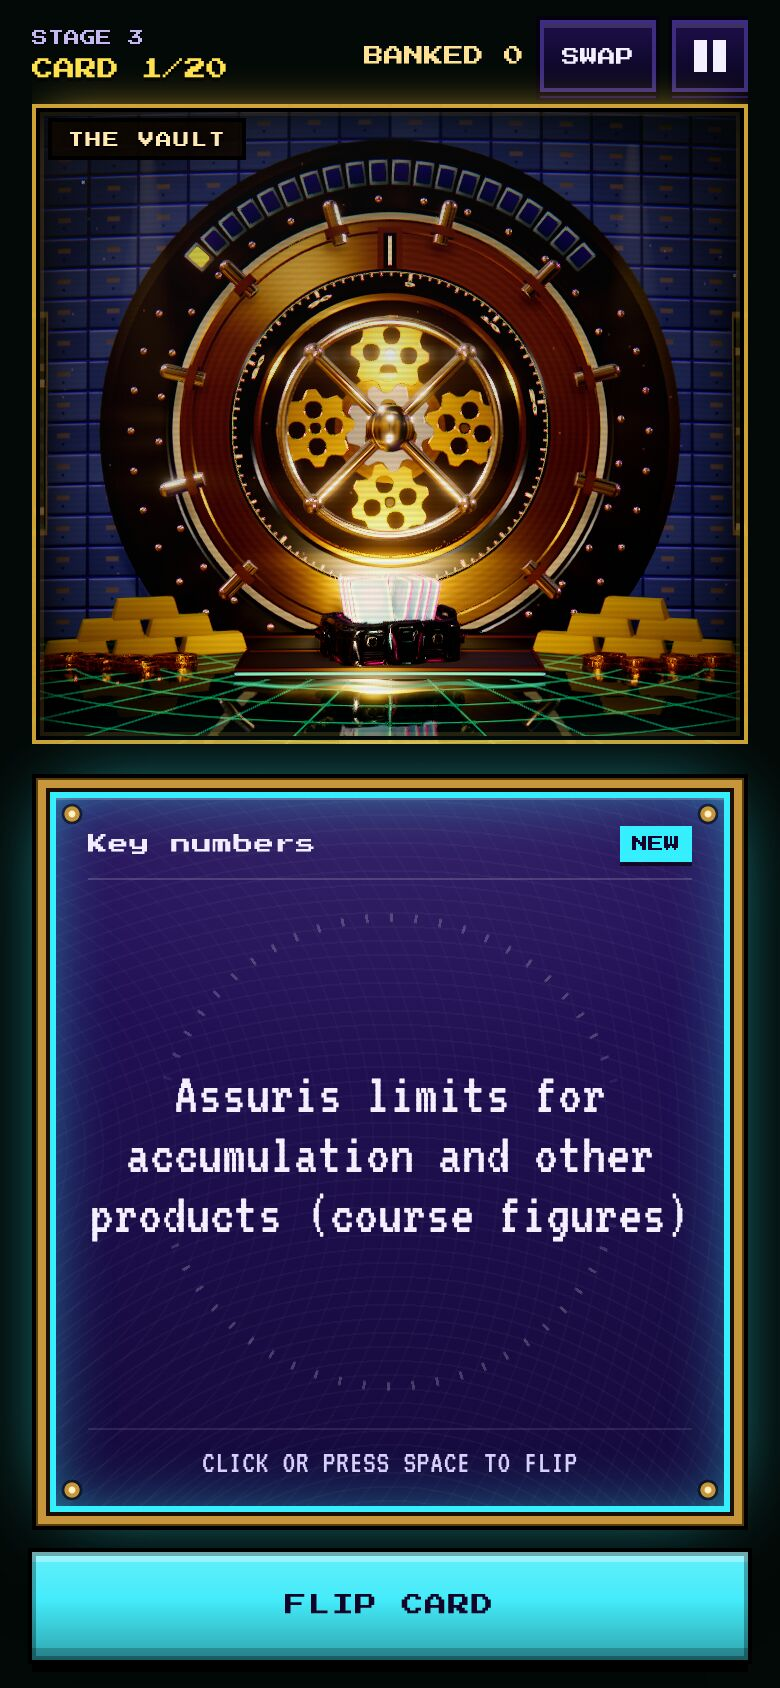
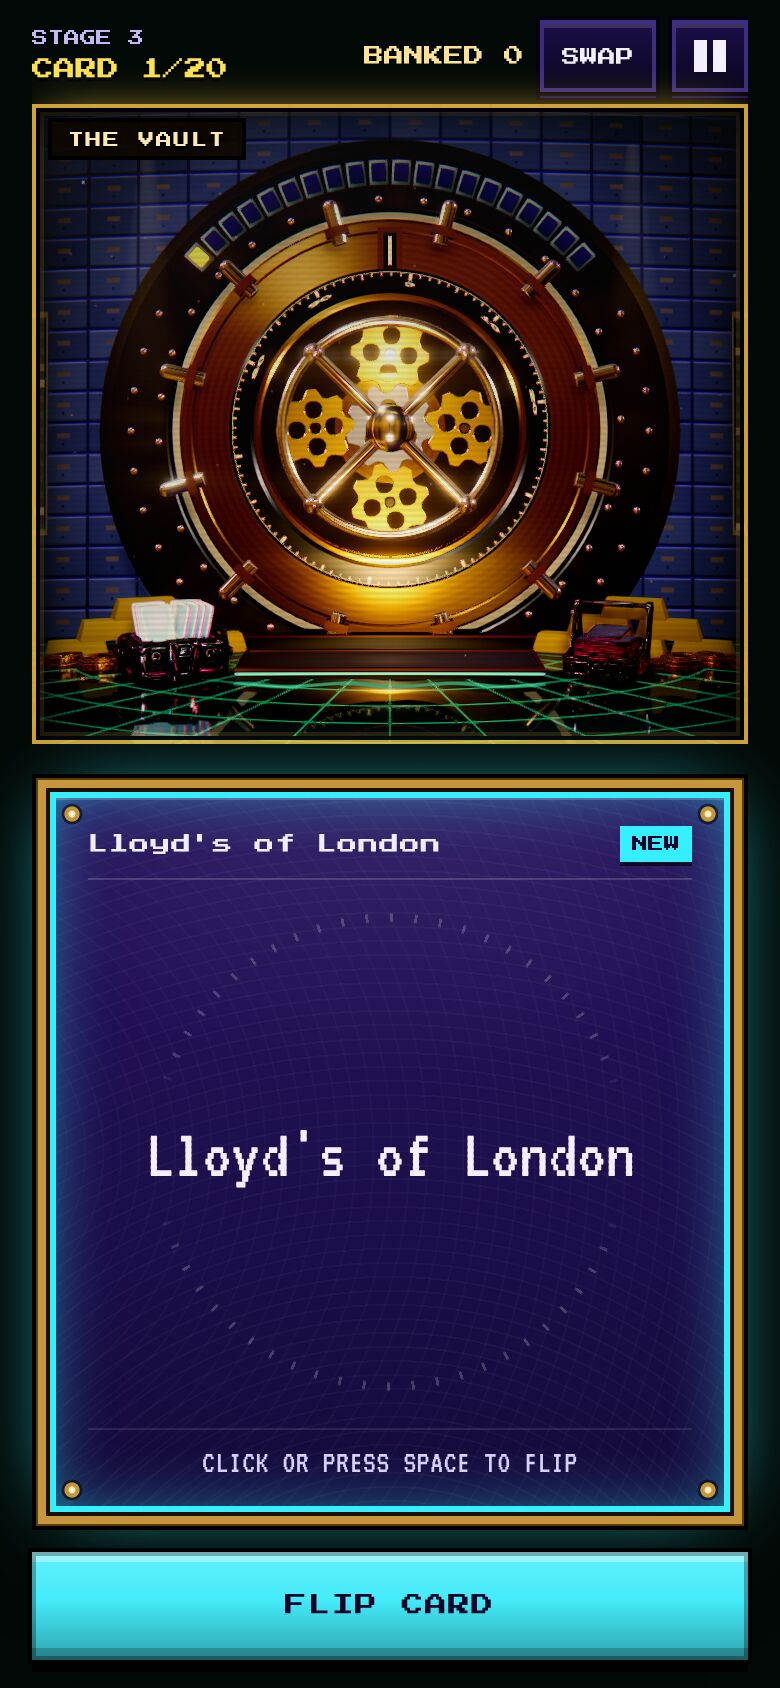
Results: the announcer's CHAPTER COMPLETE on a won chapter; captures for the rooms
CHAPTER COMPLETE (a recorded line never played until now) is spoken on the results of a single stage won (Boss Rush
STAGE CLEAR, Nest Egg Run RETIRED AT 65 or RICH) when the results have no line of their own and no RANK UP! follows.
The results' text is unchanged. The menus scenario gains a part that logs the hub's attract call and this line by
frame (calls.md), and the Memory Bank captures with the dark pile.

Claude-Session: https://claude.ai/code/session_01SXN4PWw2h7NprrScNwTTGU

diff --git a/arcade/tools/scenarios/menus.js b/arcade/tools/scenarios/menus.js
@@ -142,4 +142,56 @@ module.exports = async (cap) => {
   await cap.eval(() => document.querySelector("[data-act=ch]").click());
   await strip("16-guide-open-chapter", 8, 8, { thumb: 240 });
   }
+
+  // ---- two calls, checked without ears (nothing is drawn): the hall's attract call from Boss Rush's cabinet, and the
+  // results' CHAPTER COMPLETE. Every recorded line and announcer call is noted with its frame, in calls.md.
+  if (part("calls")) {
+    await cap.eval(() => {
+      const S = window.__arcade.Sound, log = (window.__calls = []);
+      window.__f = 0;
+      const count = () => { window.__f++; requestAnimationFrame(count); };
+      requestAnimationFrame(count);
+      const cue = S._cue.bind(S), say = S.say.bind(S);
+      S._cue = (name, ...a) => { if (/^vo/.test(name)) log.push([window.__f, "heard: the recorded line `" + name + "`"]); return cue(name, ...a); };
+      S.say = (text) => { const w = say(text); log.push([window.__f, "announcer asked for \"" + text + "\"" + (w < 0 ? " (not spoken: too late)" : "")]); return w; };
+    });
+    const note = (t) => cap.eval((t) => window.__calls.push([window.__f, "*" + t + "*"]), t);
+    const at = () => cap.eval(() => [...document.querySelectorAll(".dots i")].findIndex((e) => e.classList.contains("on")));
+    const goTo = async (i) => { while ((await at()) !== i) { await cap.eval((i) => { const n = document.querySelectorAll(".dots i").length, d = (i - [...document.querySelectorAll(".dots i")].findIndex((e) => e.classList.contains("on")) + n) % n; document.querySelector(d <= n / 2 ? "[data-act=next]" : "[data-act=prev]").click(); }, i); await cap.fast(8); } };
+    await cap.eval(() => window.__arcade.go("hub"));
+    await waitReal(() => !!document.querySelector(".hub-name"));
+    await waitReal(() => { const b = window.__arcade.Sound.bank; return !!(b["vo@adam:boss incoming"] && b["vo:chapter complete"]); }); // (the voice set, fetched behind the hall)
+    await cap.fast(60);
+    await goTo(1);
+    await note("Nest Egg Run in front, 2 s");
+    await cap.fast(120);
+    await note("Boss Rush in front, left there 5 s");
+    await goTo(2);
+    await cap.fast(300);
+    await note("on to Memory Bank and back after 1 s; Boss Rush left in front 5 s more (too soon after its call)");
+    await goTo(3); await cap.fast(60); await goTo(2);
+    await cap.fast(300);
+    await note("on to Memory Bank for 10 s, then Boss Rush in front again, 5 s");
+    await goTo(3); await cap.fast(600); await goTo(2);
+    await cap.fast(300);
+    await note("on to Memory Bank for 15 s, then Boss Rush chosen 1 s after it comes round (PLAY)");
+    await goTo(3); await cap.fast(900); await goTo(2); await cap.fast(60);
+    await cap.eval(() => document.querySelector("[data-act=play]").click());
+    await cap.fast(240);
+    const res = (o) => cap.eval((o) => { const A = window.__arcade, run = { correct: 6, answered: 6, bestStreak: 6, missed: [], start: {} }; if (o.xp0 !== undefined) run.xp0 = o.xp0; A.show.results(Object.assign({ game: "boss", sel: A.makeSelection(o.stage || "4"), run, score: 1200, color: "#ff3ad4", won: [] }, o), -1); }, o);
+    await note("results: Boss Rush stage 4 cleared, no new high score, no rank up");
+    await res({ stars: 2, title: "STAGE CLEAR", headline: "1,200", sub: "The Fine Print falls" });
+    await cap.fast(180);
+    await note("results: Boss Rush stage 4 lost");
+    await res({ title: "DEFEATED", headline: "1,200", sub: "The Fine Print stands" });
+    await cap.fast(180);
+    await note("results: Nest Egg Run, a full career on stage 2, no new high score, no rank up");
+    await res({ game: "racer", stage: "2", title: "RETIRED AT 65", headline: "$412,000", sub: "Retired at age 65" });
+    await cap.fast(180);
+    await note("results: Boss Rush stage 4 cleared with a rank up (RANK UP! is the line there)");
+    await res({ stars: 3, title: "STAGE CLEAR", headline: "1,200", sub: "The Fine Print falls", xp0: 0 });
+    await cap.fast(180);
+    const log = await cap.eval(() => window.__calls);
+    fs.writeFileSync(path.join(cap.out, "calls.md"), "# Two calls, checked without ears\n\nWritten by `tools/scenarios/menus.js` (PART=calls): every recorded announcer line and announcer call, with the frame it was made on (60 to the second), and *what the scenario did* between them.\n\n" + log.map(([f, t]) => "- frame " + f + " (" + (f / 60).toFixed(1) + " s): " + t).join("\n") + "\n");
+  }
 };

diff --git a/arcade/src/js/30-results.js b/arcade/src/js/30-results.js
@@ -157,7 +157,10 @@ function renderResults(o, rank) {
         for (let k = 0; k < (o.stars || 0); k++) setTimeout(() => { if (el.isConnected) Sound.sfx("reward", (k - 1) * 0.4); }, 120 + k * 140);
         const items = $$(".res-rewards .rw", el); // (each lands on its own beat: a timer, so it keeps the page's clock)
         rw.forEach((r, k) => setTimeout(() => { if (!el.isConnected) return; if (items[k]) items[k].classList.add("in"); Sound.sfx(r.sfx, ((k % 5) - 2) * 0.15, { vol: r.kind === "coin" ? 0.6 : 1 }); }, r.at * 1000));
-        const line = o.game === "exam" ? (o.score >= 60 ? "EXAM PASSED" : "NOT YET") : o.game === "memory" ? "DECK CLEARED" : rank === 0 && o.game !== "blaster" ? "NEW HIGH SCORE" : "";
+        // (a chapter won, a boss beaten or a full career run on one stage, with nothing else to say, not even RANK UP!:
+        // the announcer's own CHAPTER COMPLETE. Risk Blaster's runs are not won: they end at GAME OVER)
+        const won = !(r1.i > r0.i) && o.sel && o.sel.chapters && o.sel.chapters.length === 1 && !o.sel.weak && ((o.game === "boss" && o.title === "STAGE CLEAR") || (o.game === "racer" && /^RETIRED (RICH|AT 65)$/.test(o.title)));
+        const line = o.game === "exam" ? (o.score >= 60 ? "EXAM PASSED" : "NOT YET") : o.game === "memory" ? "DECK CLEARED" : rank === 0 && o.game !== "blaster" ? "NEW HIGH SCORE" : won ? "CHAPTER COMPLETE" : "";
         if (line) setTimeout(() => { if (el.isConnected) Sound.say(line); }, 600);
       }
       if (r1.i > r0.i) {

diff --git a/arcade/docs/combat-pass/unused/STATUS-rooms.md b/arcade/docs/combat-pass/unused/STATUS-rooms.md
@@ -10,13 +10,22 @@ on until the quality system switches it off); 04-gfx.js and 04b-pipeline.js are 
 | # | Item | State |
 |---|---|---|
 | 1 | Final Exam: the twelve statues and decor-podium | done: `24e-examhall.js`; exam regression IDENTICAL both ways; menus 13, 14, 14b |
-| 2 | Memory Bank: decor-deck, the pile missed cards go back to | code done (memory regression IDENTICAL both ways); capture 11, 12, 12b to come |
-| 3 | Strategy Guide: decor-tome in the archive's background | to do |
-| 4 | Hub: Boss Rush's cabinet calls "Boss incoming!" (two voices) | to do |
-| 5 | Results: the announcer's "CHAPTER COMPLETE" | to do |
+| 2 | Memory Bank: decor-deck, the pile missed cards go back to | done: `23c-memorygen.js`; memory regression IDENTICAL both ways; menus 11, 12, 12b |
+| 3 | Strategy Guide: decor-tome in the archive's background | done: `31b-library.js` (the stand, in the joinery batch), `31c-librarygen.js`; menus 15 |
+| 4 | Hub: Boss Rush's cabinet calls "Boss incoming!" (two voices) | done: `11d-hubcall.js`, one line in `11-hub.js`; menus calls.md |
+| 5 | Results: the announcer's "CHAPTER COMPLETE" | done: `30-results.js`; menus calls.md |
 
 ## Notes
 - 1: the ending's camera on a phone sees a narrow slice behind the examiner, so the statues stand in two interleaved
   tiers on plinths in an arc behind the dais (inside the colonnade); the first desk stands on the centre line at the
   foot of the gallery. They are not drawn while the questions are up (on a wide screen they would stand behind the
   question and the answers); the light comes up on them when the ending begins.
+- 2: with the decor the bright deck moves from the plinth's middle (where the banked bars rose through it) to its left
+  end, and the dark pile stands at its right end; with GFX.extras === false the vault is as it was.
+- 3: the shelves are a flat painted wall, so a book on them would float; the tome lies on a third stand like the two
+  lecterns, built into the joinery batch (no draw of its own), only when the tome is in hand and the decor is on.
+- 4: once per dwell of 3.2 s on Boss Rush's cabinet, then not for 14 s; waits for the announcer (Sound.sayAt) and makes
+  the next line wait for it; off while the cabinet is chosen (zooming), with sound or voice off, or from disk.
+- 5: only on a single stage won (Boss Rush STAGE CLEAR, Nest Egg Run RETIRED AT 65 or RICH), when the results have no
+  line of their own and no RANK UP! follows. Risk Blaster's runs always end at GAME OVER, so it has no won chapter.
+- Last: full regression both ways and the sequence test.

diff --git a/arcade/docs/combat-pass/menus/README.md b/arcade/docs/combat-pass/menus/README.md
@@ -25,5 +25,6 @@ show. Everything but the title was made again after the review's fix round.
 | `13-exam.jpg` | The Final Exam: the examiner, its armour mirroring the moonlit night and its chest's hollow smooth gunmetal, at its lectern (the open book and the bell at the foot of the frame). |
 | `14-exam-passed.jpg` | The exam passed (one frame every 0.7 s): the lectern sinks away, the examiner falls, the camera draws back into the hall with the full moon and the night in its left arch; the burst stays short of white. As the ending begins the light comes up on the gallery behind the dais: the eleven chapter bosses and the Proctor as bronze statues on two tiers of plinths, and the examiner's first desk on the centre line. |
 | `14b-exam-gallery.jpg` | After the blast: the gallery of statues and the first desk behind the wreck. |
-| `15-guide.jpg` | The Strategy Guide: the archive with the great book open on its stand under the rose window, its pages to the lens, lit by its own lamp and the archive's light. |
+| `15-guide.jpg` | The Strategy Guide: the archive with the great book open on its stand under the rose window, its pages to the lens, lit by its own lamp and the archive's light. Deeper in the nave, left of it under the last pair of hanging lamps, the first, darker tome lies closed on a third stand (its magenta ribbon over the edge, a cyan ring at its foot, as the lecterns have). |
 | `16-guide-open-chapter.jpg` | A chapter opened (one frame every 0.13 s): the archive's view turns from the nave to the shelves behind the chapter's banner. |
+| `calls.md` | Two calls, checked without ears: Boss Rush's cabinet left in front of the lens calls "Boss incoming!" once after 3.2 s (one recorded voice, the other the next time), not again within 14 s, never when it is chosen; and the results of a won chapter (Boss Rush stage clear, Nest Egg Run full career, one stage, no new high score, no rank up) speak CHAPTER COMPLETE. |

diff --git a/arcade/docs/combat-pass/menus/calls.md b/arcade/docs/combat-pass/menus/calls.md
@@ -1,0 +1,27 @@
+# Two calls, checked without ears
+
+Written by `tools/scenarios/menus.js` (PART=calls): every recorded announcer line and announcer call, with the frame it was made on (60 to the second), and *what the scenario did* between them.
+
+- frame 68 (1.1 s): *Nest Egg Run in front, 2 s*
+- frame 139 (2.3 s): heard: the recorded line `vo:welcome`
+- frame 139 (2.3 s): announcer asked for "WELCOME"
+- frame 139 (2.3 s): heard: the recorded line `vo:select your game`
+- frame 139 (2.3 s): announcer asked for "SELECT YOUR GAME"
+- frame 188 (3.1 s): *Boss Rush in front, left there 5 s*
+- frame 380 (6.3 s): heard: the recorded line `vo@adam:boss incoming`
+- frame 496 (8.3 s): *on to Memory Bank and back after 1 s; Boss Rush left in front 5 s more (too soon after its call)*
+- frame 872 (14.5 s): *on to Memory Bank for 10 s, then Boss Rush in front again, 5 s*
+- frame 1671 (27.9 s): heard: the recorded line `vo@brian:boss incoming`
+- frame 1788 (29.8 s): *on to Memory Bank for 15 s, then Boss Rush chosen 1 s after it comes round (PLAY)*
+- frame 2764 (46.1 s): heard: the recorded line `vo:boss rush`
+- frame 2764 (46.1 s): announcer asked for "BOSS RUSH"
+- frame 3004 (50.1 s): *results: Boss Rush stage 4 cleared, no new high score, no rank up*
+- frame 3040 (50.7 s): heard: the recorded line `vo:chapter complete`
+- frame 3040 (50.7 s): announcer asked for "CHAPTER COMPLETE"
+- frame 3184 (53.1 s): *results: Boss Rush stage 4 lost*
+- frame 3364 (56.1 s): *results: Nest Egg Run, a full career on stage 2, no new high score, no rank up*
+- frame 3400 (56.7 s): heard: the recorded line `vo:chapter complete`
+- frame 3400 (56.7 s): announcer asked for "CHAPTER COMPLETE"
+- frame 3544 (59.1 s): *results: Boss Rush stage 4 cleared with a rank up (RANK UP! is the line there)*
+- frame 3648 (60.8 s): heard: the recorded line `vo:rank up`
+- frame 3648 (60.8 s): announcer asked for "RANK UP!"
